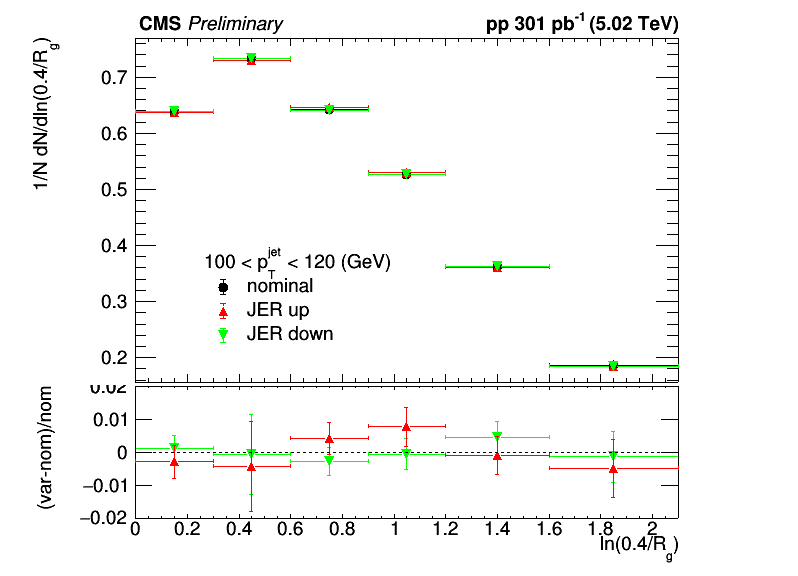
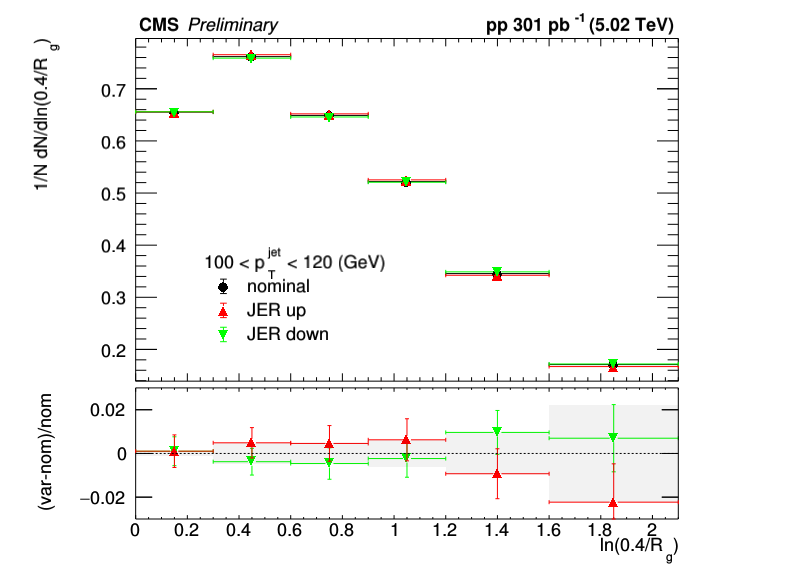
update inclusive jer uncertainty plots including symmetrization

diff --git a/myMacros/C106X/uncertanties/jer_unc_inclusive.C b/myMacros/C106X/uncertanties/jer_unc_inclusive.C
@@ -9,6 +9,7 @@ void jer_unc_inclusive(TString observable="rg")
     gStyle->SetLabelSize(text_size, "XYZ");
     gStyle->SetTitleSize(text_size, "XYZ");
     gStyle->SetErrorX(0.5);
+    gStyle->SetCanvasPreferGL(kTRUE);
 
     TString xlabel;
     if (observable=="rg") xlabel = "ln(0.4/R_{g})";
@@ -26,6 +27,8 @@ void jer_unc_inclusive(TString observable="rg")
     int nbins_x = h_nom->GetNbinsX();
     int nbins_pt = h_nom->GetNbinsY();
 
+    // std::cout << nbins_x << std::endl;
+
     TCanvas *c_jer = new TCanvas("c_jer", "", 800, 600);
     // TPad *pad11 = new TPad("pad11", "", 0., 0., 0.33, 0.35);
     TPad *pad12 = new TPad("pad12", "", 0., 0., 1., 0.33);
@@ -39,7 +42,9 @@ void jer_unc_inclusive(TString observable="rg")
     std::vector<TPad *> bottom_pads = {pad11, pad12, pad13};
     std::vector<TPad *> top_pads = {pad21, pad22, pad23};
     
-    TFile *fout = new TFile("./histos/"+observable+"_jer_unc_inclusive.root", "recreate");
+    TString fout_name = "./histos/"+observable+"_jer_unc_inclusive.root";
+    std::cout << "fout: " << fout_name << std::endl;
+    TFile *fout = new TFile(fout_name, "recreate");
     
     for (int ibin_pt = 1; ibin_pt <= nbins_pt; ibin_pt++) {
         if (ibin_pt!=2) continue;
@@ -47,7 +52,7 @@ void jer_unc_inclusive(TString observable="rg")
 
         double pt_min = h_nom->GetYaxis()->GetBinLowEdge(ibin_pt);
         double pt_max = h_nom->GetYaxis()->GetBinUpEdge(ibin_pt);
-        std::cout << ibin_pt << ": " << pt_min << ", " << pt_max << std::endl;
+        // std::cout << ibin_pt << ": " << pt_min << ", " << pt_max << std::endl;
 
         TLegend *leg;
         if (observable=="rg") leg = new TLegend(0.25, 0.1, 0.65, 0.35);
@@ -144,8 +149,8 @@ void jer_unc_inclusive(TString observable="rg")
         if (ymax<0) ymax*=0.9;
         else ymax*=1.1;
 
-        ymin = -0.02;
-        ymax = 0.02;
+        ymin = -0.01;
+        ymax = 0.01;
 
         h_unc_up_rel->GetYaxis()->SetRangeUser(ymin, ymax);
         h_unc_down_rel->GetYaxis()->SetRangeUser(ymin, ymax);
@@ -159,9 +164,27 @@ void jer_unc_inclusive(TString observable="rg")
         line->SetLineStyle(kDashed);
         line->Draw();
 
+        TH1D *h_unc_rel = (TH1D *) h_unc_up_rel->Clone(Form("h_unc_rel_%d",ibin_pt));
+        TH1D *h_band = (TH1D *) h_unc_rel->Clone("h_band");
+        h_band->Reset();
+        for (int ibin_x=1; ibin_x<=h_unc_rel->GetNbinsX(); ibin_x++) {
+            double maxUnc = std::max(std::abs(h_unc_up_rel->GetBinContent(ibin_x)), std::abs(h_unc_down_rel->GetBinContent(ibin_x)));
+            h_unc_rel->SetBinContent(ibin_x, maxUnc);
+            h_band->SetBinContent(ibin_x, 0.);
+            h_band->SetBinError(ibin_x, maxUnc);
+        }
+        h_unc_rel->Write();
+
+        h_band->SetMarkerSize(0);
+        h_band->SetFillStyle(1001);
+        h_band->SetFillColorAlpha(kBlack, 0.05);
+        h_band->Draw("e2 same");
+
         c_jer->cd();
         top_pads[ipad]->Draw();
         bottom_pads[ipad]->Draw();
+
+        
 
     }
     c_jer->Draw();
